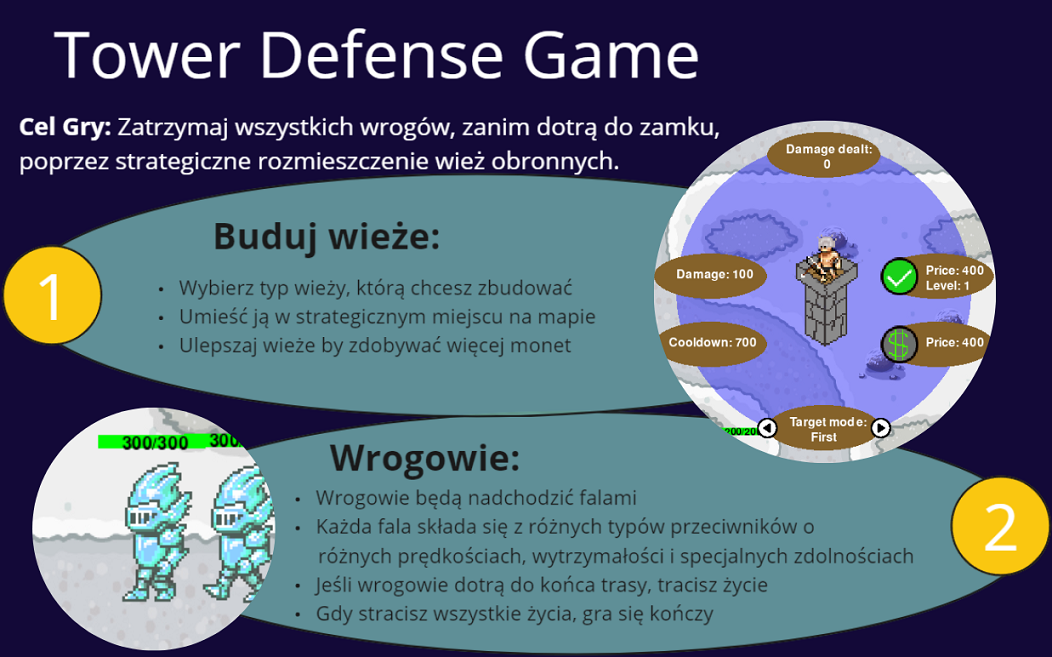
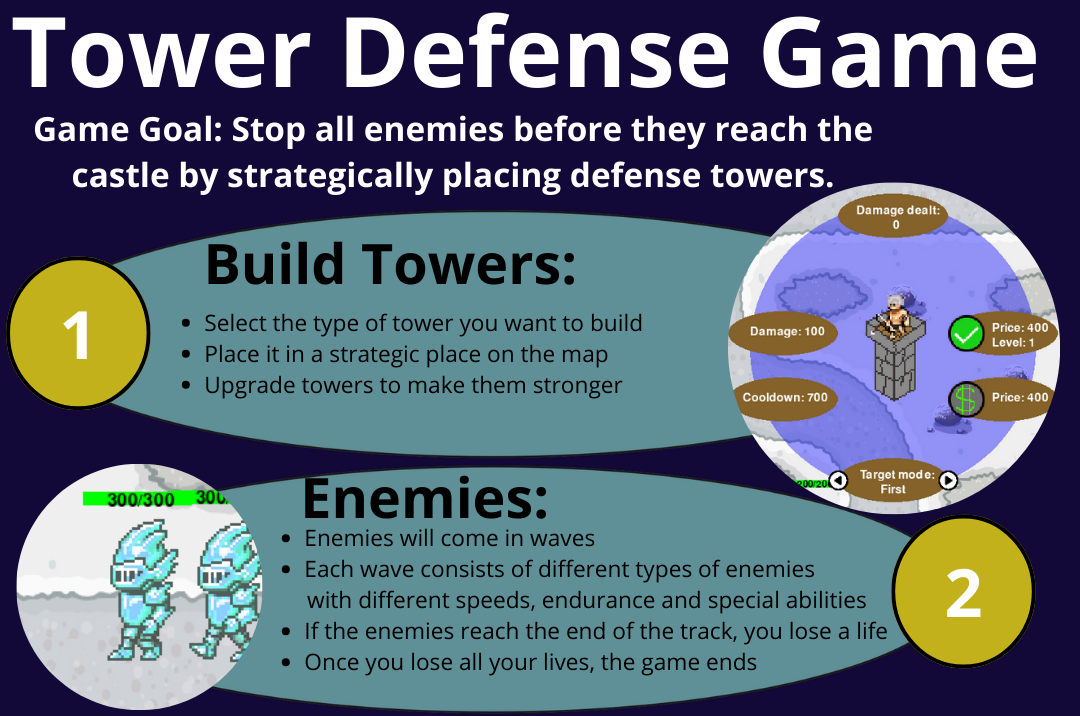
the language in the menu has been changed to English

diff --git a/main_menu.py b/main_menu.py
@@ -31,7 +31,8 @@ class Main_menu():
         self.play_rect = pygame.Rect(0, 0, 0, 0)
 
         self.show_info = False
-
+        self.elipse_width = 220 * self.x_scale_rate
+        self.elipse_height = 70 * self.y_scale_rate
 
     # Getter
     @property
@@ -75,53 +76,53 @@ class Main_menu():
     def draw_start_menu(self, screen, game_running):
         screen.blit(self.knight_transformed, (1050 * self.x_scale_rate, 300 * self.y_scale_rate))
 
-        text = self.font_title.render("Witaj rycerzu!", True, (114, 179, 73))
+        text = self.font_title.render("Hello Knight!", True, (114, 179, 73))
         screen.blit(text, ((self.width/2 - 450) * self.x_scale_rate, (self.height/2 - 170) * self.y_scale_rate))
 
         if game_running:
-            self.reasume_rect = pygame.Rect((self.width/2 - 300) * self.x_scale_rate, (self.height/2 + 50)  * self.y_scale_rate, 220 * self.x_scale_rate, 70 * self.y_scale_rate)
+            self.reasume_rect = pygame.Rect((self.width/2 - 300) * self.x_scale_rate, (self.height/2 + 30)  * self.y_scale_rate, self.elipse_width, self.elipse_height)
             pygame.draw.ellipse(screen, self.button_color, self.reasume_rect)
 
-            text = self.font_buttons.render("Kontynuuj", True, (255, 255, 255))
-            screen.blit(text, ((self.width/2 - 300 + 60) * self.x_scale_rate, (self.height/2 + 50 + 25) * self.y_scale_rate))
+            text = self.font_buttons.render("Resume", True, (255, 255, 255))
+            screen.blit(text, (self.elipse_width // 2 - text.get_width() // 2 + (self.width/2 - 300) * self.x_scale_rate, self.elipse_height // 2 - text.get_height() // 2 + (self.height/2 + 30) * self.y_scale_rate))
 
     
-        self.new_game_rect = pygame.Rect((self.width/2 - 300) * self.x_scale_rate, (self.height/2 + 150) * self.y_scale_rate, 220 * self.x_scale_rate, 70 * self.y_scale_rate)
+        self.new_game_rect = pygame.Rect((self.width/2 - 300) * self.x_scale_rate, (self.height/2 + 130) * self.y_scale_rate, self.elipse_width, self.elipse_height)
         pygame.draw.ellipse(screen, self.button_color, self.new_game_rect)
 
-        text = self.font_buttons.render("Nowa gra", True, (255, 255, 255))
-        screen.blit(text, ((self.width/2 - 300 + 65) * self.x_scale_rate, (self.height/2 + 150 + 25) * self.y_scale_rate))
+        text = self.font_buttons.render("New game", True, (255, 255, 255))
+        screen.blit(text, (self.elipse_width // 2 - text.get_width() // 2 + (self.width/2 - 300) * self.x_scale_rate, self.elipse_height // 2 - text.get_height() // 2 + (self.height/2 + 130) * self.y_scale_rate))
 
-        self.exit_rect = pygame.Rect((self.width/2 - 300) * self.x_scale_rate, (self.height/2 + 250) * self.y_scale_rate, 220 * self.x_scale_rate, 70 * self.y_scale_rate)
+        self.exit_rect = pygame.Rect((self.width/2 - 300) * self.x_scale_rate, (self.height/2 + 230) * self.y_scale_rate, self.elipse_width, self.elipse_height)
         pygame.draw.ellipse(screen, self.button_color, self.exit_rect)
 
-        text = self.font_buttons.render("Wyjdź z gry", True, (255, 255, 255))
-        screen.blit(text, ((self.width/2 - 300 + 60) * self.x_scale_rate, (self.height/2 + 250 + 25) * self.y_scale_rate))
+        text = self.font_buttons.render("Exit", True, (255, 255, 255))
+        screen.blit(text, (self.elipse_width // 2 - text.get_width() // 2 + (self.width/2 - 300) * self.x_scale_rate, self.elipse_height // 2 - text.get_height() // 2 + (self.height/2 + 230) * self.y_scale_rate))
 
 
     def draw_end_menu(self, screen, player_won, score):
         if player_won:
-            main_text = "Wygrałeś!!!"
+            main_text = "You won!!!"
         else:
-            main_text = "Przegrałeś"
+            main_text = "You lost"
 
         text = self.font_title.render(main_text, True, (114, 179, 73))
-        screen.blit(text, ((self.width/2 - 220) * self.x_scale_rate, (self.height/2 - 200) * self.y_scale_rate))
+        screen.blit(text, (self.width/2 * self.x_scale_rate - text.get_width()//2, (self.height/2 - 200) * self.y_scale_rate))
 
-        text = self.font_score.render("Twój wynik to: " + str(score), True, (114, 179, 73))
-        screen.blit(text, ((self.width/2 - 250) * self.x_scale_rate, (self.height/2 - 70) * self.y_scale_rate))
+        text = self.font_score.render("Your result: " + str(score), True, (114, 179, 73))
+        screen.blit(text, (self.width/2* self.x_scale_rate - text.get_width()//2, (self.height/2 - 70) * self.y_scale_rate))
 
-        self.return_to_menu_rect = pygame.Rect((self.width/2 - 110 - 220) * self.x_scale_rate, (self.height/2 + 100) * self.y_scale_rate, 220 * self.x_scale_rate, 70 * self.y_scale_rate)
+        self.return_to_menu_rect = pygame.Rect((self.width/2 - 330) * self.x_scale_rate, (self.height/2 + 100) * self.y_scale_rate, self.elipse_width, self.elipse_height)
         pygame.draw.ellipse(screen, self.button_color, self.return_to_menu_rect)
 
-        text = self.font_buttons.render("Powrót do menu", True, (255, 255, 255))
-        screen.blit(text, ((self.width/2 - 110 - 220 + 40) * self.x_scale_rate, (self.height/2 + 100 + 30) * self.y_scale_rate))
+        text = self.font_buttons.render("Back to menu", True, (255, 255, 255))
+        screen.blit(text, (self.elipse_width // 2 - text.get_width() // 2 + (self.width/2 - 110) * self.x_scale_rate - self.elipse_width, self.elipse_height // 2 - text.get_height() // 2 + (self.height/2 + 100) * self.y_scale_rate))
 
-        self.new_game_rect = pygame.Rect((self.width/2 + 110) * self.x_scale_rate, (self.height/2 + 100) * self.y_scale_rate, 220 * self.x_scale_rate, 70 * self.y_scale_rate)
+        self.new_game_rect = pygame.Rect((self.width/2 + 110) * self.x_scale_rate, (self.height/2 + 100) * self.y_scale_rate, self.elipse_width, self.elipse_height)
         pygame.draw.ellipse(screen, self.button_color, self.new_game_rect)
 
-        text = self.font_buttons.render("Zagraj ponowenie", True, (255, 255, 255))
-        screen.blit(text, ((self.width/2 + 110 + 40) * self.x_scale_rate, (self.height/2 + 100 + 30) * self.y_scale_rate))
+        text = self.font_buttons.render("Play again", True, (255, 255, 255))
+        screen.blit(text, (self.elipse_width // 2 - text.get_width() // 2 + (self.width/2 + 110) * self.x_scale_rate, self.elipse_height // 2 - text.get_height() // 2 + (self.height/2 + 100) * self.y_scale_rate))
         
 
     def draw_info_menu(self, screen):
@@ -171,3 +172,6 @@ class Main_menu():
         self.font_buttons = pygame.font.Font(None, int(24 * x_scale_rate)) 
         self.font_title = pygame.font.Font(None, int(128 * x_scale_rate))
         self.font_score = pygame.font.Font(None, int(80 * x_scale_rate))
+
+        self.elipse_width = 220 * self.x_scale_rate
+        self.elipse_height = 70 * self.y_scale_rate
